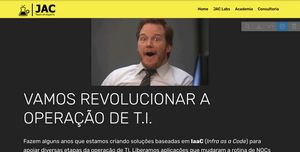
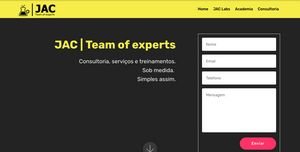
ajustando formulario do principal

diff --git a/page2.html b/page2.html
@@ -69,7 +69,7 @@
     </nav>
 </section>
 
-<section class="engine"><a href="https://mobirise.info/z">best free css templates</a></section><section class="mbr-section content4 cid-rN8mM6OjRn" id="content4-t">
+<section class="engine"><a href="https://mobirise.info/s">bootstrap theme</a></section><section class="mbr-section content4 cid-rN8mM6OjRn" id="content4-t">
 
     
 
@@ -119,12 +119,12 @@
                 <div id="bootstrap-toggle" class="toggle-panel accordionStyles tab-content">
                         <div class="card">
                             <div class="card-header" role="tab" id="headingOne">
-                                <a role="button" class="panel-title text-black collapsed" data-toggle="collapse" data-core="" href="#collapse1_21" aria-expanded="false" aria-controls="collapse1">
+                                <a role="button" class="panel-title text-black collapsed" data-toggle="collapse" data-core="" href="#collapse1_22" aria-expanded="false" aria-controls="collapse1">
                                     <h4 class="mbr-fonts-style display-5">
                                         <span class="sign mbr-iconfont inactive mbri-arrow-down"></span>Treinamentos</h4>
                                 </a>
                             </div>
-                            <div id="collapse1_21" class="panel-collapse noScroll collapse" role="tabpanel" aria-labelledby="headingOne" style="">
+                            <div id="collapse1_22" class="panel-collapse noScroll collapse" role="tabpanel" aria-labelledby="headingOne" style="">
                                 <div class="panel-body p-4">
                                     <p class="mbr-fonts-style panel-text display-7">Nosso profissionais possuem muita experiência com treinamentos e capacitação, especialmente dentro do Governo Federal e grandes organizações privadas.<br><br>Procuramos aliar o conhecimento teórico e prático, equilibrando o treinamento para que nossos alunos retornem para suas respectivas organizações com condições de aplicar o conhecimento adquirido.<br><br>Treinamentos relativos a metodologias e técnicas:<br>&nbsp;<br>- DevOps<br>- Infra Ágil<br>- Infra As Code<br>- Continuous Integration<br>- Continuous Delivery<br>- Microserviços<br>- Containers<br><br>Treinamentos das tecnologias:<br><br>- Puppet<br>- Ansible<br>- Nexus Repo<br>- MatterMost<br>- Git/GitLab/GitHub/Bitbucker<br>- Jenkins<br>- GitLab CI<br>- Docker<br>- Rundeck<br>- Terraform<br>- Rancher<br>- Puppet<br><br>Adaptamos nosso material às necessidades de cada cliente, dando foco especial nos temas e tópicos de maior valor para aquele cliente ou projeto.</p>
                                 </div>
@@ -132,13 +132,13 @@
                         </div>
                         <div class="card">
                             <div class="card-header" role="tab" id="headingTwo">
-                                <a role="button" class="panel-title text-black collapsed" data-toggle="collapse" data-core="" href="#collapse2_21" aria-expanded="false" aria-controls="collapse2">
+                                <a role="button" class="panel-title text-black collapsed" data-toggle="collapse" data-core="" href="#collapse2_22" aria-expanded="false" aria-controls="collapse2">
                                     <h4 class="mbr-fonts-style display-5">
                                         <span class="sign mbr-iconfont inactive mbri-arrow-down"></span>Consultoria</h4>
                                 </a>
 
                             </div>
-                            <div id="collapse2_21" class="panel-collapse noScroll collapse" role="tabpanel" aria-labelledby="headingTwo" style="">
+                            <div id="collapse2_22" class="panel-collapse noScroll collapse" role="tabpanel" aria-labelledby="headingTwo" style="">
                                 <div class="panel-body p-4">
                                     <p class="mbr-fonts-style panel-text display-7">Oferecemos consultoria nas seguinte áreas:<br><br>- Desenho de ambientes Linux escaláveis;<br>- Alta disponibilidade de serviços;<br>- DevOps;<br>- Infra as Code;<br>- Automação, Gerência de configuração e Orquestração;<br>- Monitoramento de aplicações e telemetria;<br>- Centralização de logs e telemetria;<br>- Continuous Integration e Continuous Delivery;<br>- Containerização de APPs;<br>- Migração de APPs para nuvem;<br>- Computação em Nuvem;<br>- Recuperação de falhas em ambientes críticos;<br>- Análise de ambientes com proposição de melhorias via automação e métodos;<br>- Avaliação da situação DevOps de sua organização.</p>
                                 </div>
@@ -146,12 +146,12 @@
                         </div>
                         <div class="card">
                             <div class="card-header" role="tab" id="headingThree">
-                                <a role="button" class="panel-title text-black collapsed" data-toggle="collapse" data-core="" href="#collapse3_21" aria-expanded="false" aria-controls="collapse3">
+                                <a role="button" class="panel-title text-black collapsed" data-toggle="collapse" data-core="" href="#collapse3_22" aria-expanded="false" aria-controls="collapse3">
                                     <h4 class="mbr-fonts-style display-5">
                                         <span class="sign mbr-iconfont inactive mbri-arrow-down"></span>Implantação e automação</h4>
                                 </a>
                             </div>
-                            <div id="collapse3_21" class="panel-collapse noScroll collapse" role="tabpanel" aria-labelledby="headingThree" style="">
+                            <div id="collapse3_22" class="panel-collapse noScroll collapse" role="tabpanel" aria-labelledby="headingThree" style="">
                                 <div class="panel-body p-4">
                                     <p class="mbr-fonts-style panel-text display-7">Implantação de ambientes:<br><br>- Puppet;<br>- GitLab;<br>- Nexus;<br>- MatterMost<br>- RocketChat; <br>- Jenkins; <br>- Rancher<br>- Origin (Openshift); <br>- ProxMox;<br>- Ansible;<br>- Docker;<br>- Rundeck;<br>- Terraform;<br>- Pipelines CI/CD.<br><br>Automação:<br><br>- Automação de sistemas e serviços utilizando Puppet, Ansible, Rundeck e Terraform.<br></p>
                                 </div>
@@ -159,12 +159,12 @@
                         </div>
                         <div class="card">
                             <div class="card-header" role="tab" id="headingThree">
-                                <a role="button" class="panel-title text-black collapsed" data-toggle="collapse" data-core="" href="#collapse4_21" aria-expanded="false" aria-controls="collapse4">
+                                <a role="button" class="panel-title text-black collapsed" data-toggle="collapse" data-core="" href="#collapse4_22" aria-expanded="false" aria-controls="collapse4">
                                     <h4 class="mbr-fonts-style display-5">
                                         <span class="sign mbr-iconfont inactive mbri-arrow-down"></span>Gerenciamento de crises</h4>
                                 </a>
                             </div>
-                            <div id="collapse4_21" class="panel-collapse noScroll collapse" role="tabpanel" aria-labelledby="headingThree" style="">
+                            <div id="collapse4_22" class="panel-collapse noScroll collapse" role="tabpanel" aria-labelledby="headingThree" style="">
                                 <div class="panel-body p-4">
                                     <p class="mbr-fonts-style panel-text display-7">Atuamos presencialmente durante crises e incidentes críticos, gerenciando e conduzindo os trabalhos em "<strong><em>salas de guerra</em></strong>", apoiando na organização de times e atividades, na identificação do problema, na avaliação de riscos, na organização do plano de ação, na distribuíção do time de resposta, na comunicação com organizações internas e externas diretamente relacionadas ao incidente e na construção do post-mortem.</p>
                                 </div>
@@ -172,12 +172,12 @@
                         </div>
                         <div class="card">
                             <div class="card-header" role="tab" id="headingThree">
-                                <a role="button" class="panel-title text-black collapsed" data-toggle="collapse" data-core="" href="#collapse5_21" aria-expanded="false" aria-controls="collapse5">
+                                <a role="button" class="panel-title text-black collapsed" data-toggle="collapse" data-core="" href="#collapse5_22" aria-expanded="false" aria-controls="collapse5">
                                     <h4 class="mbr-fonts-style display-5">
                                         <span class="sign mbr-iconfont inactive mbri-arrow-down"></span>Apoio em pré-vendas</h4>
                                 </a>
                             </div>
-                            <div id="collapse5_21" class="panel-collapse noScroll collapse" role="tabpanel" aria-labelledby="headingThree" style="">
+                            <div id="collapse5_22" class="panel-collapse noScroll collapse" role="tabpanel" aria-labelledby="headingThree" style="">
                                 <div class="panel-body p-4">
                                     <p class="mbr-fonts-style panel-text display-7">- Elaboração de especificação técnica para projetos CI/CD, Containers e DevOps;<br>- Elaboração de apresentações/slides e defesas de projetos em seus clientes;<br>- Acompanhamento de visitas a clientes para análise e definições técnicas;<br>- Análise de RFPs e elaboração de proposta técnica a partir destes documentos;<br>- Análise de TRs e elaboração de proposta técnica a partir destes documentos;<br>- Sugestão e redação de proposta e especificação técnica para TRs e RFPs.</p>
                                 </div>
@@ -185,12 +185,12 @@
                         </div>
                         <div class="card">
                             <div class="card-header" role="tab" id="headingThree">
-                                <a role="button" class="panel-title text-black collapsed" data-toggle="collapse" data-core="" href="#collapse6_21" aria-expanded="false" aria-controls="collapse6">
+                                <a role="button" class="panel-title text-black collapsed" data-toggle="collapse" data-core="" href="#collapse6_22" aria-expanded="false" aria-controls="collapse6">
                                     <h4 class="mbr-fonts-style display-5">
                                         <span class="sign mbr-iconfont inactive mbri-arrow-down"></span>Unidades de serviço</h4>
                                 </a>
                             </div>
-                            <div id="collapse6_21" class="panel-collapse noScroll collapse" role="tabpanel" aria-labelledby="headingThree" style="">
+                            <div id="collapse6_22" class="panel-collapse noScroll collapse" role="tabpanel" aria-labelledby="headingThree" style="">
                                 <div class="panel-body p-4">
                                     <p class="mbr-fonts-style panel-text display-7">Oferecemos pacotes de horas de consutoria ou implantação para simplificar sua contratação de serviços. Através das Service Units (SU), você pode adquirir pacotes de serviços e consultoria para sua empresa acionar sob demanda.<br><br>Uma service unit equivale a 4 horas de trabalho de um profissional de nosso time.<br><br>O escopo do atendimento é o mesmo dos serviços desta página.<br><br>Faça uma cotação e conte com desconto progressivo acima de 30 SU’s.</p>
                                 </div>
@@ -222,7 +222,7 @@
         <div class="row justify-content-center">
             <div class="media-container-column col-lg-8" data-form-type="formoid">
                 <!---Formbuilder Form--->
[2 lines of base64/hex data omitted]
                     <div class="row">
                         <div hidden="hidden" data-form-alert="" class="alert alert-success col-12">Obrigado pelo contato!</div>
                         <div hidden="hidden" data-form-alert-danger="" class="alert alert-danger col-12">

diff --git a/index.html b/index.html
@@ -70,7 +70,7 @@
     </nav>
 </section>
 
-<section class="engine"><a href="https://mobirise.info/b">how to create a website for free</a></section><section class="header15 cid-rN4GZiOiST mbr-fullscreen" id="header15-1">
+<section class="engine"><a href="https://mobirise.info/a">online web builder</a></section><section class="header15 cid-rN4GZiOiST mbr-fullscreen" id="header15-1">
 
     
 
@@ -84,10 +84,12 @@
                 <p class="mbr-text pb-3 mbr-fonts-style display-5">Consultoria, serviços e treinamentos.<br>Sob medida. <br>Simples assim.</p>
             </div>
             <div class="col-lg-4 col-md-5">
+              <br><br><br>
                 <div class="form-container">
                     <div class="media-container-column" data-form-type="formoid">
                         <!---Formbuilder Form--->
[1 lines of base64/hex data omitted]
+                      
[1 lines of base64/hex data omitted]
                             <div class="row">
                                 <div hidden="hidden" data-form-alert="" class="alert alert-success col-12">Em breve responderemos sua mensagem!</div>
                                 <div hidden="hidden" data-form-alert-danger="" class="alert alert-danger col-12">
@@ -209,15 +211,15 @@
                   
                 </div>
                 <div class="clearfix"></div>
-                <div id="bootstrap-accordion_16" class="panel-group accordionStyles accordion" role="tablist" aria-multiselectable="true">
+                <div id="bootstrap-accordion_3" class="panel-group accordionStyles accordion" role="tablist" aria-multiselectable="true">
                   <div class="card">
                             <div class="card-header" role="tab" id="headingOne">
-                                <a role="button" class="collapsed panel-title text-black" data-toggle="collapse" data-core="" href="#collapse1_16" aria-expanded="false" aria-controls="collapse1">
+                                <a role="button" class="collapsed panel-title text-black" data-toggle="collapse" data-core="" href="#collapse1_3" aria-expanded="false" aria-controls="collapse1">
                                     <h4 class="mbr-fonts-style display-5">
                                         <span class="sign mbr-iconfont mbri-arrow-down inactive"></span>RedHat</h4>
                                 </a>
                             </div>
-                            <div id="collapse1_16" class="panel-collapse noScroll collapse" role="tabpanel" aria-labelledby="headingOne" data-parent="#bootstrap-accordion_16">
+                            <div id="collapse1_3" class="panel-collapse noScroll collapse" role="tabpanel" aria-labelledby="headingOne" data-parent="#bootstrap-accordion_3">
                                 <div class="panel-body p-4">
                                     <p class="mbr-fonts-style panel-text display-7">
                                        RHCE, RedHat Certified Engineer<br>RHCSA, RedHat Certified System Administrator<br>RHCJA, RedHat Certified Jboss Administrator</p>
@@ -227,13 +229,13 @@
                 
                         <div class="card">
                             <div class="card-header" role="tab" id="headingTwo">
-                                <a role="button" class="collapsed panel-title text-black" data-toggle="collapse" data-core="" href="#collapse2_16" aria-expanded="false" aria-controls="collapse2">
+                                <a role="button" class="collapsed panel-title text-black" data-toggle="collapse" data-core="" href="#collapse2_3" aria-expanded="false" aria-controls="collapse2">
                                     <h4 class="mbr-fonts-style mbr-fonts-style display-5">
                                         <span class="sign mbr-iconfont mbri-arrow-down inactive"></span>Puppet</h4>
                                 </a>
                                 
                             </div>
-                            <div id="collapse2_16" class="panel-collapse noScroll collapse" role="tabpanel" aria-labelledby="headingTwo" data-parent="#bootstrap-accordion_16">
+                            <div id="collapse2_3" class="panel-collapse noScroll collapse" role="tabpanel" aria-labelledby="headingTwo" data-parent="#bootstrap-accordion_3">
                                 <div class="panel-body p-4">
                                     <p class="mbr-fonts-style panel-text display-7">
                                        Puppet Certified Administrator<br>Puppet Certified Instructor</p>
@@ -243,12 +245,12 @@
                 
                         <div class="card">
                             <div class="card-header" role="tab" id="headingThree">
-                                <a role="button" class="collapsed panel-title text-black" data-toggle="collapse" data-core="" href="#collapse3_16" aria-expanded="false" aria-controls="collapse3">
+                                <a role="button" class="collapsed panel-title text-black" data-toggle="collapse" data-core="" href="#collapse3_3" aria-expanded="false" aria-controls="collapse3">
                                     <h4 class="mbr-fonts-style display-5">
                                         <span class="sign mbr-iconfont mbri-arrow-down inactive"></span>Scrum Alliance</h4>
                                 </a>
                             </div>
-                            <div id="collapse3_16" class="panel-collapse noScroll collapse" role="tabpanel" aria-labelledby="headingThree" data-parent="#bootstrap-accordion_16">
+                            <div id="collapse3_3" class="panel-collapse noScroll collapse" role="tabpanel" aria-labelledby="headingThree" data-parent="#bootstrap-accordion_3">
                                 <div class="panel-body p-4">
                                     <p class="mbr-fonts-style panel-text display-7">Certified Scrum Master&nbsp;</p>
                                 </div>
@@ -257,12 +259,12 @@
                 
                         <div class="card">
                             <div class="card-header" role="tab" id="headingFour">
-                                <a role="button" class="collapsed panel-title text-black" data-toggle="collapse" data-core="" href="#collapse4_16" aria-expanded="false" aria-controls="collapse4">
+                                <a role="button" class="collapsed panel-title text-black" data-toggle="collapse" data-core="" href="#collapse4_3" aria-expanded="false" aria-controls="collapse4">
                                     <h4 class="mbr-fonts-style display-5">
                                         <span class="sign mbr-iconfont mbri-arrow-down inactive"></span>Zabbix</h4>
                                 </a>
                             </div>
-                            <div id="collapse4_16" class="panel-collapse noScroll collapse" role="tabpanel" aria-labelledby="headingFour" data-parent="#bootstrap-accordion_16">
+                            <div id="collapse4_3" class="panel-collapse noScroll collapse" role="tabpanel" aria-labelledby="headingFour" data-parent="#bootstrap-accordion_3">
                                 <div class="panel-body p-4">
                                     <p class="mbr-fonts-style panel-text display-7">
                                        Zabbix Certified Specialist<br>Zabbix Certified Professional</p>
@@ -272,12 +274,12 @@
                 
                         <div class="card">
                             <div class="card-header" role="tab" id="headingFive">
-                                <a role="button" class="collapsed panel-title text-black" data-toggle="collapse" data-core="" href="#collapse5_16" aria-expanded="false" aria-controls="collapse5">
+                                <a role="button" class="collapsed panel-title text-black" data-toggle="collapse" data-core="" href="#collapse5_3" aria-expanded="false" aria-controls="collapse5">
                                     <h4 class="mbr-fonts-style display-5">
                                         <span class="sign mbr-iconfont mbri-arrow-down inactive"></span>LPI</h4>
                                 </a>
                             </div>
-                            <div id="collapse5_16" class="panel-collapse noScroll collapse" role="tabpanel" aria-labelledby="headingFive" data-parent="#bootstrap-accordion_16">
+                            <div id="collapse5_3" class="panel-collapse noScroll collapse" role="tabpanel" aria-labelledby="headingFive" data-parent="#bootstrap-accordion_3">
                                 <div class="panel-body p-4">
                                     <p class="mbr-fonts-style panel-text display-7">
                                        LPIC-1<br>LPIC-2<br>LPIC-3 Core</p>
@@ -287,12 +289,12 @@
                 
                         <div class="card">
                             <div class="card-header" role="tab" id="headingSix">
-                                <a role="button" class="collapsed panel-title text-black" data-toggle="collapse" data-core="" href="#collapse6_16" aria-expanded="false" aria-controls="collapse6">
+                                <a role="button" class="collapsed panel-title text-black" data-toggle="collapse" data-core="" href="#collapse6_3" aria-expanded="false" aria-controls="collapse6">
                                     <h4 class="mbr-fonts-style display-5">
                                         <span class="sign mbr-iconfont mbri-arrow-down inactive"></span>EXIN</h4>
                                 </a>
                             </div>
-                            <div id="collapse6_16" class="panel-collapse noScroll collapse" role="tabpanel" aria-labelledby="headingSix" data-parent="#bootstrap-accordion_16">
+                            <div id="collapse6_3" class="panel-collapse noScroll collapse" role="tabpanel" aria-labelledby="headingSix" data-parent="#bootstrap-accordion_3">
                                 <div class="panel-body p-4">
                                     <p class="mbr-fonts-style panel-text display-7">
                                        Exin DevOps Master</p>
@@ -302,12 +304,12 @@
                   
                     <div class="card">
                             <div class="card-header" role="tab" id="headingSix">
-                                <a role="button" class="collapsed panel-title text-black" data-toggle="collapse" data-core="" href="#collapse7_16" aria-expanded="false" aria-controls="collapse7">
+                                <a role="button" class="collapsed panel-title text-black" data-toggle="collapse" data-core="" href="#collapse7_3" aria-expanded="false" aria-controls="collapse7">
                                     <h4 class="mbr-fonts-style display-5">
                                         <span class="sign mbr-iconfont mbri-arrow-down inactive"></span>LKU</h4>
                                 </a>
                             </div>
-                            <div id="collapse7_16" class="panel-collapse noScroll collapse" role="tabpanel" aria-labelledby="headingSix" data-parent="#bootstrap-accordion_16">
+                            <div id="collapse7_3" class="panel-collapse noScroll collapse" role="tabpanel" aria-labelledby="headingSix" data-parent="#bootstrap-accordion_3">
                                 <div class="panel-body p-4">
                                     <p class="mbr-fonts-style panel-text display-7">
                                        PMP LKU Kanban Professional</p></div>

diff --git a/page1.html b/page1.html
@@ -70,7 +70,7 @@
     </nav>
 </section>
 
-<section class="engine"><a href="https://mobirise.info/l">free web templates</a></section><section class="header11 cid-rN4NghCGcZ mbr-fullscreen" id="header11-c">
+<section class="engine"><a href="https://mobirise.info/y">html website templates</a></section><section class="header11 cid-rN4NghCGcZ mbr-fullscreen" id="header11-c">
 
     <!-- Block parameters controls (Blue "Gear" panel) -->
     
@@ -560,7 +560,7 @@
         <div class="row justify-content-center">
             <div class="media-container-column col-lg-8" data-form-type="formoid">
                 <!---Formbuilder Form--->
[2 lines of base64/hex data omitted]
                     <div class="row">
                         <div hidden="hidden" data-form-alert="" class="alert alert-success col-12">Entraremos em contato!</div>
                         <div hidden="hidden" data-form-alert-danger="" class="alert alert-danger col-12">
